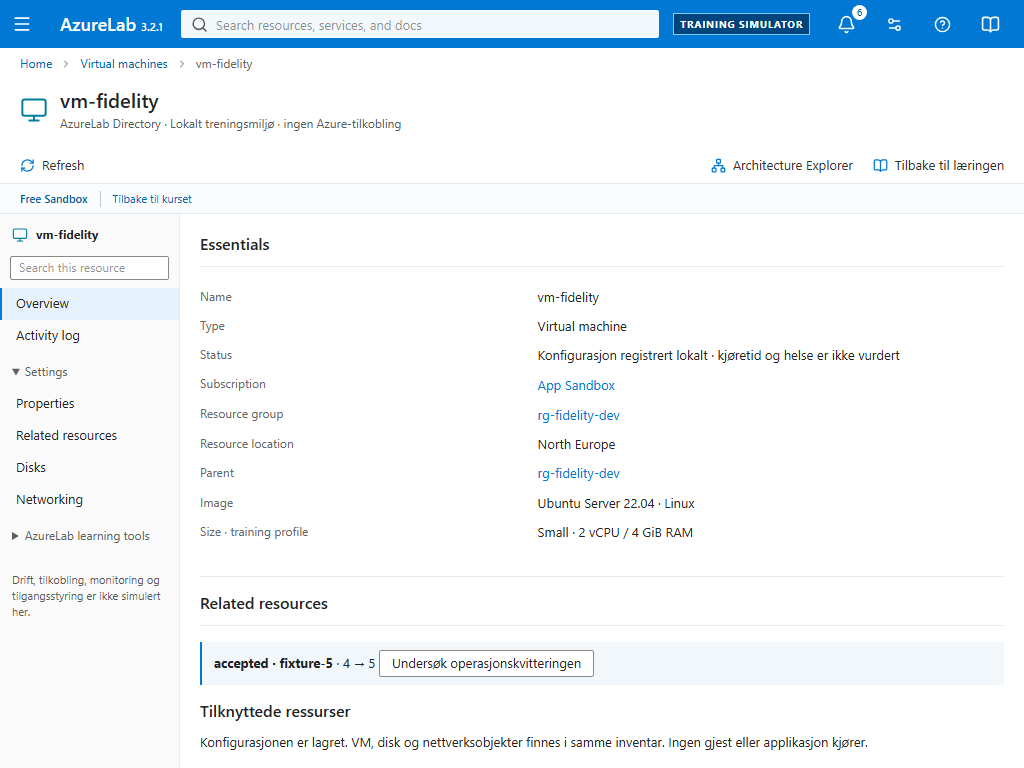
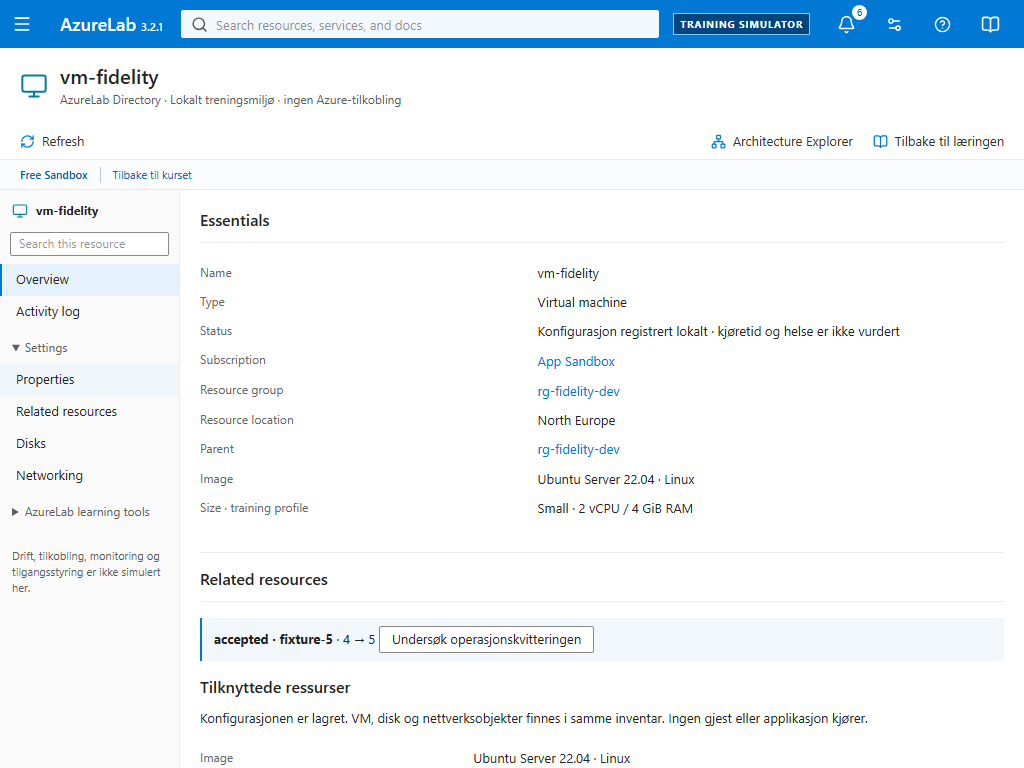
Keep focused Portal titles visible beneath the sticky header

diff --git a/tests/e2e/practical-labs.spec.ts b/tests/e2e/practical-labs.spec.ts
@@ -228,6 +228,16 @@ test('root course to persisted VM, app settings, separate SaaS, exact debrief an
   ).toBe(false);
   await page.locator('[data-guide="commit"]').click();
   await expect(page.locator('.portal-title h1')).toHaveText('vm-first');
+  await expect(page.locator('.portal-title h1')).toBeFocused();
+  expect(
+    await page
+      .locator('.portal-title h1')
+      .evaluate(
+        (el) =>
+          el.getBoundingClientRect().top >=
+          document.querySelector('.portal-header')!.getBoundingClientRect().bottom,
+      ),
+  ).toBe(true);
   await page.getByRole('button', { name: t.receipt, exact: true }).click();
   await expect(page.locator('.chapter-receipt')).toHaveAttribute('data-outcome', 'accepted');
   await expect(page.locator('.chapter-receipt')).toContainText('vm-profile@2');

diff --git a/src/features/portal/portal.tsx b/src/features/portal/portal.tsx
@@ -252,7 +252,8 @@ function PortalWorkspace() {
           (location.id === world.identity.id ? world.identity.name : p.noResource))
         : p.areas[location.area];
   useEffect(() => {
-    heading.current?.focus();
+    heading.current?.focus({ preventScroll: true });
+    heading.current?.scrollIntoView({ block: 'start', behavior: 'instant' });
   }, [location.area, location.id, location.kind, location.topic]);
   useEffect(() => {
     if (!menu) return;

diff --git a/src/features/portal/portal.css b/src/features/portal/portal.css
@@ -70,6 +70,7 @@
   text-decoration: underline;
 }
 .portal h1 {
+  scroll-margin-top: calc(var(--portal-header) + 16px);
   width: fit-content;
   font-size: 20px;
   font-weight: 600;
@@ -1226,6 +1227,9 @@
   }
 }
 @media (max-width: 800px) {
+  .portal {
+    --portal-header: 90px;
+  }
   .portal input,
   .portal select,
   .portal textarea {

diff --git a/docs/PORTAL_REFERENCE_FIDELITY.md b/docs/PORTAL_REFERENCE_FIDELITY.md
@@ -51,7 +51,7 @@ No domain, replay adapter, store, assessment, XP, dependency or lockfile change.
 
 Compared official public form/menu/appearance screenshots and private owner Home/VM compositions against the running production-built AzureLab. Original baseline: [PR16 VM1440](screenshots/cleanup-portal-1440.png). After: [VM1440](screenshots/portal-fidelity-vm-1440.png), [Home1920](screenshots/portal-fidelity-home-1920.png), [Overview1366](screenshots/portal-fidelity-overview-1366.png), [compact Overview1024](screenshots/portal-fidelity-overview-1024.png), [settings1440](screenshots/portal-fidelity-settings-1440.png), [notifications1366](screenshots/portal-fidelity-notifications-1366.png), [guided RG](screenshots/portal-fidelity-group-guided.png), [plan](screenshots/portal-fidelity-plan-guided.png), [Web App](screenshots/portal-fidelity-app-guided.png), [actual denial/guide](screenshots/portal-fidelity-denial.png). The full tests also capture every Home/list/VM form/Overview/settings/panel at1920,1440,1366,1024; raw images/traces/videos remain ignored test artifacts.
 
-Inspection found and corrected: Home losing its semantic H1, unsupported expanded ARIA on a searchbox, excess VM/name-helper spacing, overly tall RG/plan/Web grouping, misleading Create on VM Overview, lost app settings breadcrumb/resource section, coach width remaining reserved when minimized, original small-screen stylesheet collisions,320px header overflow and390px tab-strip overflow. Final screenshots are actual output after correction, not mockups. Public reference zoom/content differ from our synthetic fixtures; no numeric similarity/pixel-parity or physical-device performance claim is justified.
+Inspection found and corrected: Home losing its semantic H1, unsupported expanded ARIA on a searchbox, excess VM/name-helper spacing, overly tall RG/plan/Web grouping, misleading Create on VM Overview, lost app settings breadcrumb/resource section, coach width remaining reserved when minimized, original small-screen stylesheet collisions,320px header overflow and390px tab-strip overflow. The actual Vercel walkthrough additionally found the sticky header covering a focused title after long-form submission; navigation now focuses without browser-default scrolling, then scrolls the title immediately using the actual header offset. The retained VM creation regression asserts focus and visible framing. Final screenshots are actual output after correction, not mockups. Public reference zoom/content differ from our synthetic fixtures; no numeric similarity/pixel-parity or physical-device performance claim is justified.
 
 ### Reproducible owner walkthrough
 

diff --git a/docs/PROJECT_STATUS.md b/docs/PROJECT_STATUS.md
@@ -4,7 +4,7 @@
 
 Base verified `codex/legacy-cleanup` at `4c377cb44b30e4a41a25015b7eeccdf0e6745602`; isolated branch `codex/azure-portal-high-fidelity`, stacked on PR16. PR14/15/16 and production configuration remain unchanged. `/` still enters the actual course; existing Free sandbox and practical links expose the delivery in the real `/portal`.
 
-Implemented common compact shell/tokens, English operational controls, Home discovery/actual session recents, local keyboard search, sortable real inventory tables, docked/flyout session preference, service-specific resource menus/search/breadcrumbs, linked Essentials/Properties, VM disk/NIC inspection, consistent RG/plan/Web/VM forms and right-hand notifications. App settings now follows Edit → Save draft → separate Apply; only the unchanged command persists. SavvyShark keeps its brief/guidance/recall and really releases reserved width when minimized. No new dependencies, models, stores, evidence/XP/rubric changes, data migration or Azure integration. [Dated gap matrix, comparison, reviewed screenshots and remaining differences](PORTAL_REFERENCE_FIDELITY.md).
+Implemented common compact shell/tokens, English operational controls, Home discovery/actual session recents, local keyboard search, sortable real inventory tables, docked/flyout session preference, service-specific resource menus/search/breadcrumbs, linked Essentials/Properties, VM disk/NIC inspection, consistent RG/plan/Web/VM forms and right-hand notifications. The protected preview exposed sticky-header/title overlap after VM submission; explicit immediate focus/scroll plus header-aware margins fix it, with a retained full-flow framing assertion. App settings now follows Edit → Save draft → separate Apply; only the unchanged command persists. SavvyShark keeps its brief/guidance/recall and really releases reserved width when minimized. No new dependencies, models, stores, evidence/XP/rubric changes, data migration or Azure integration. [Dated gap matrix, comparison, reviewed screenshots and remaining differences](PORTAL_REFERENCE_FIDELITY.md).
 
 ### Executed engineering verification
 
